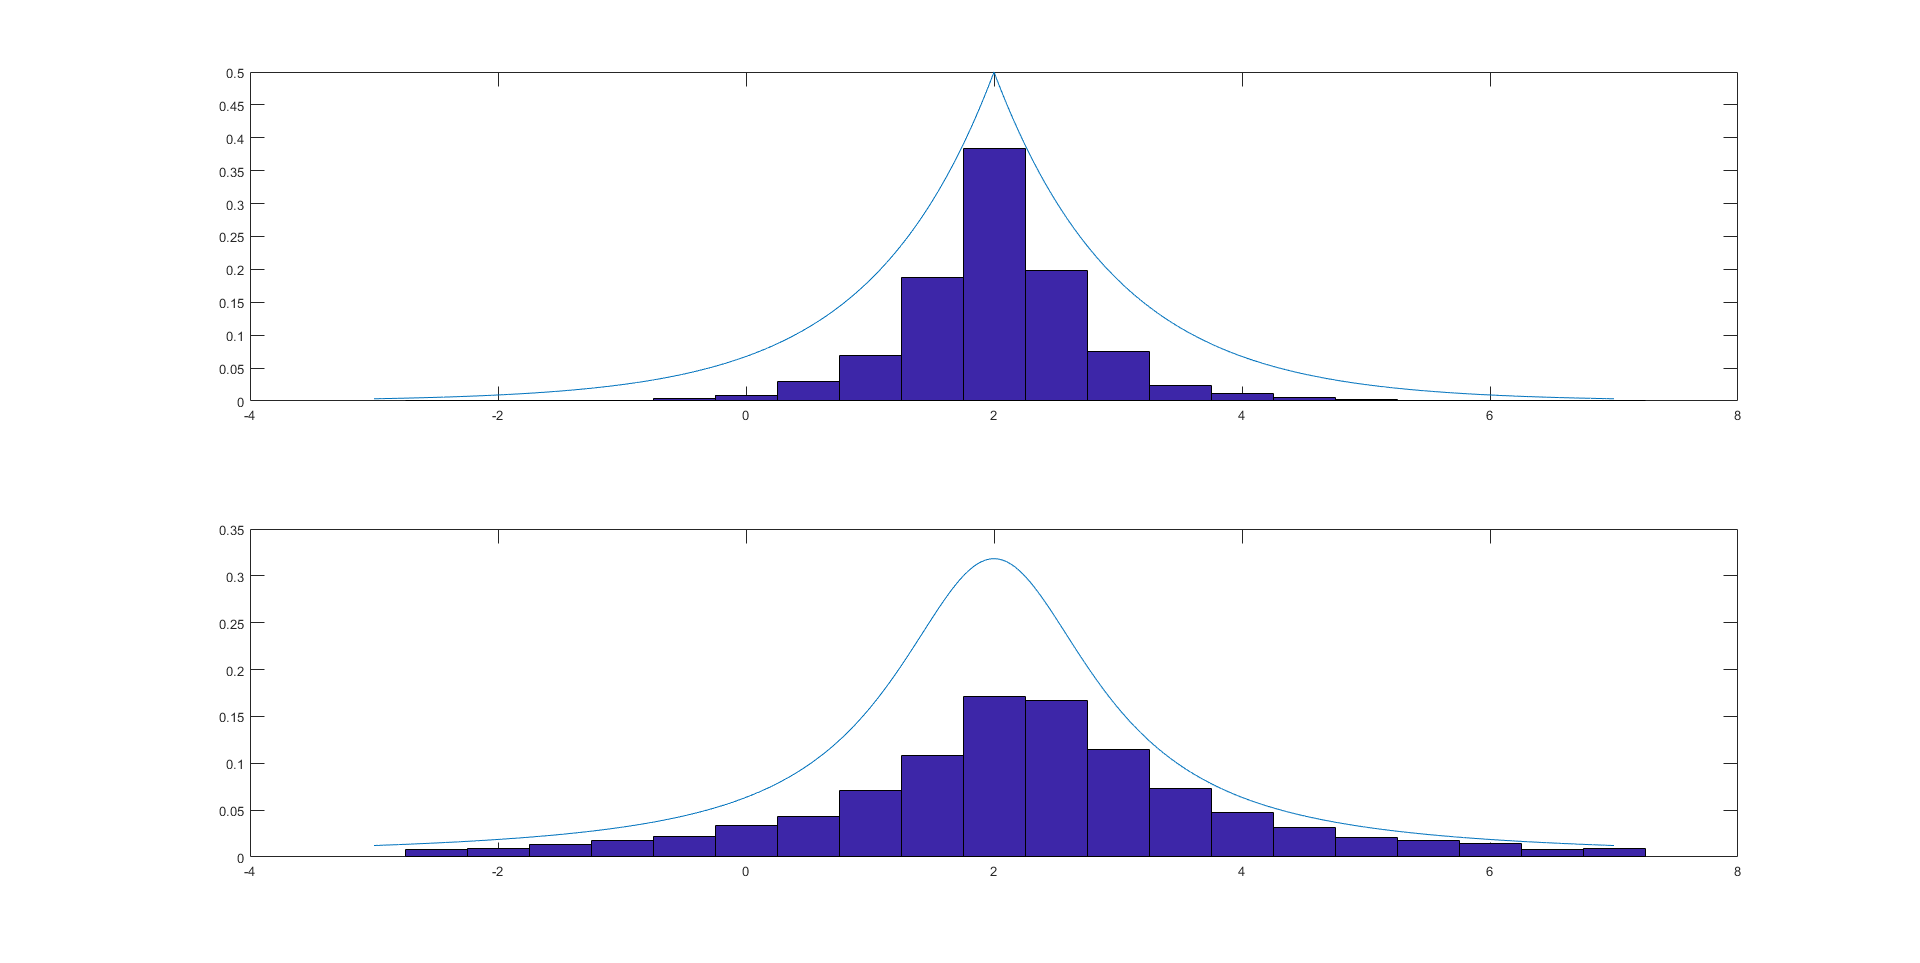
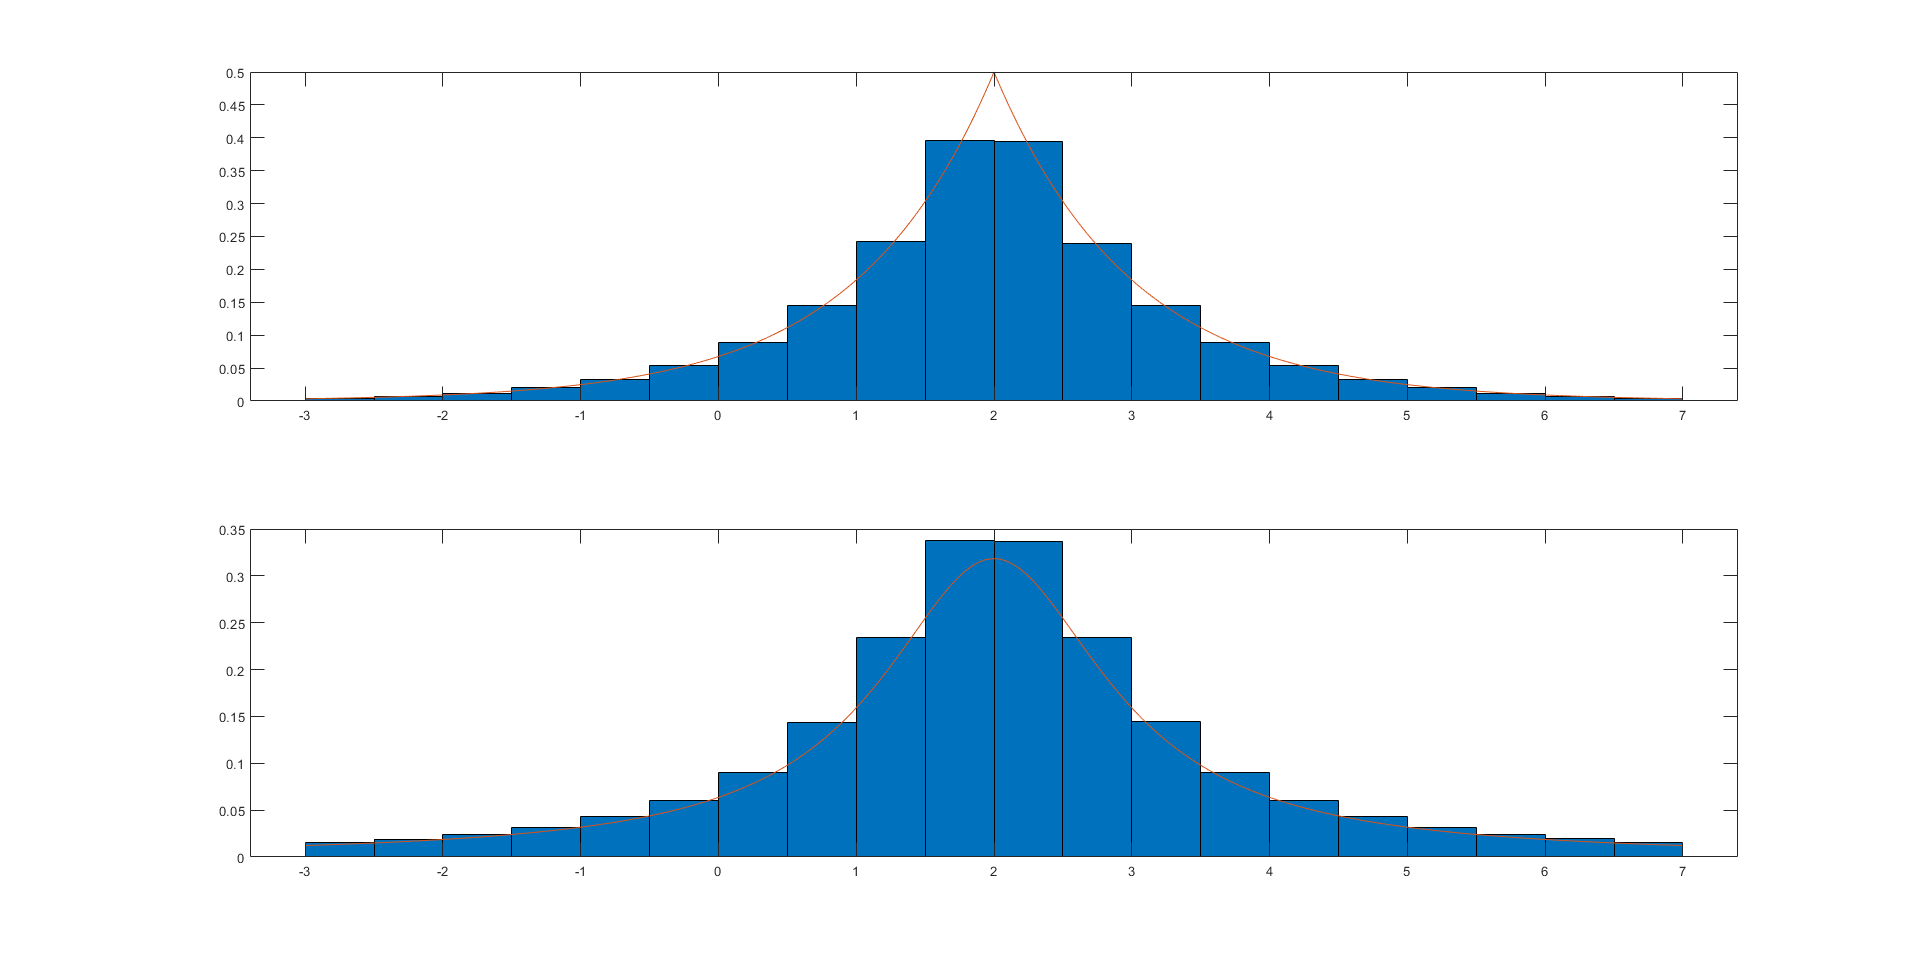
Update ex4, add ex14

Changed region(s): [[0.1562, 0.5607, 0.875, 0.9034], [0.1562, 0.0935, 0.875, 0.4361]]

diff --git a/ex4_Adam_Krempczynski_165250.m b/ex4_Adam_Krempczynski_165250.m
@@ -6,7 +6,8 @@ mean = 2;
 b = 1;
 uni_vars = -0.5 + 1 .* rand(N, 1);
 laplace_vars = mean - b*sign(uni_vars).*log(1-2*abs(uni_vars));
-
+laplace_vars = laplace_vars(laplace_vars >= -3);
+laplace_vars = laplace_vars(laplace_vars <= 7);
 % Generate D - Cauchy variable C(2,1)
 variance = 1;
 std_dev = sqrt(variance);
@@ -16,16 +17,16 @@ Y = std_dev*(randn(N,1));
 cauchy_vars = mean + X ./ Y;
 
 % Histograms
-x_axis = -2.5:0.5:7;
+x_axis = -2.75:0.5:6.75;
 %% C variable histogram
 c_hist = hist(laplace_vars, 20);
-c_hist = c_hist/sum(c_hist);
+c_hist = c_hist/(0.5*sum(c_hist));
 
 %% D variable histogram
 cauchy_vars = cauchy_vars(cauchy_vars <= 7);
 cauchy_vars = cauchy_vars(cauchy_vars >= -3);
 d_hist = hist(cauchy_vars, 20);
-d_hist = d_hist/sum(d_hist);
+d_hist = d_hist/(sum(d_hist)*0.5);
 
 % Calculate expected PDFs
 x = -3:0.001:7;
@@ -41,13 +42,13 @@ cauchy_pdf = b/pi ./ (b^2 + (x-a).^2);
 
 %% Plot results
 subplot(2,1,1);
-plot(x, laplace_pdf);
-hold on;
 bar(x_axis, c_hist, 1.0);
+hold on;
+plot(x, laplace_pdf);
 hold off;
 
 subplot(2,1,2);
-plot(x, cauchy_pdf);
-hold on;
 bar(x_axis, d_hist, 1.0);
+hold on;
+plot(x, cauchy_pdf);
 hold off;

diff --git a/ex14_Adam_Krempczynski_165250.m b/ex14_Adam_Krempczynski_165250.m
@@ -1,0 +1,66 @@
+% Constants 
+N = 100;
+
+figure;
+[Y1, X1] = calculate(N, 0.0);
+scatter(X1, Y1);
+xlabel("X");
+ylabel("Y");
+title("\rho_{XY} = 0.0");
+
+figure;
+[Y2, X2] = calculate(N, 0.5);
+subplot(1,2,1);
+scatter(X2, Y2);
+xlabel("X");
+ylabel("Y");
+title("\rho_{XY} = 0.5");
+
+[Y3, X3] = calculate(N, -0.5);
+subplot(1,2,2);
+scatter(X3, Y3);
+xlabel("X");
+ylabel("Y");
+title("\rho_{XY} = -0.5");
+
+figure;
+[Y4, X4] = calculate(N, 0.9);
+subplot(1,2,1);
+scatter(X4, Y4);
+xlabel("X");
+ylabel("Y");
+title("\rho_{XY} = 0.9");
+
+[Y5, X5] = calculate(N, -0.9);
+subplot(1,2,2);
+scatter(X5, Y5);
+xlabel("X");
+ylabel("Y");
+title("\rho_{XY} = -0.9");
+
+figure;
+[Y6, X6] = calculate(N, 1);
+subplot(1,2,1);
+scatter(X6, Y6);
+xlabel("X");
+ylabel("Y");
+title("\rho_{XY} = 1.0");
+
+[Y7, X7] = calculate(N, -1);
+subplot(1,2,2);
+scatter(X7, Y7);
+xlabel("X");
+ylabel("Y");
+title("\rho_{XY} = -1.0");
+
+
+% Function generate realizations
+function [Y, X] = calculate(N, rho)
+    X = randn(N, 1);
+    Z = randn(N, 1);
+    
+    a = rho;
+    b = sqrt(1 - a^2);
+    
+    Y = a*X + b*Z;
+end
